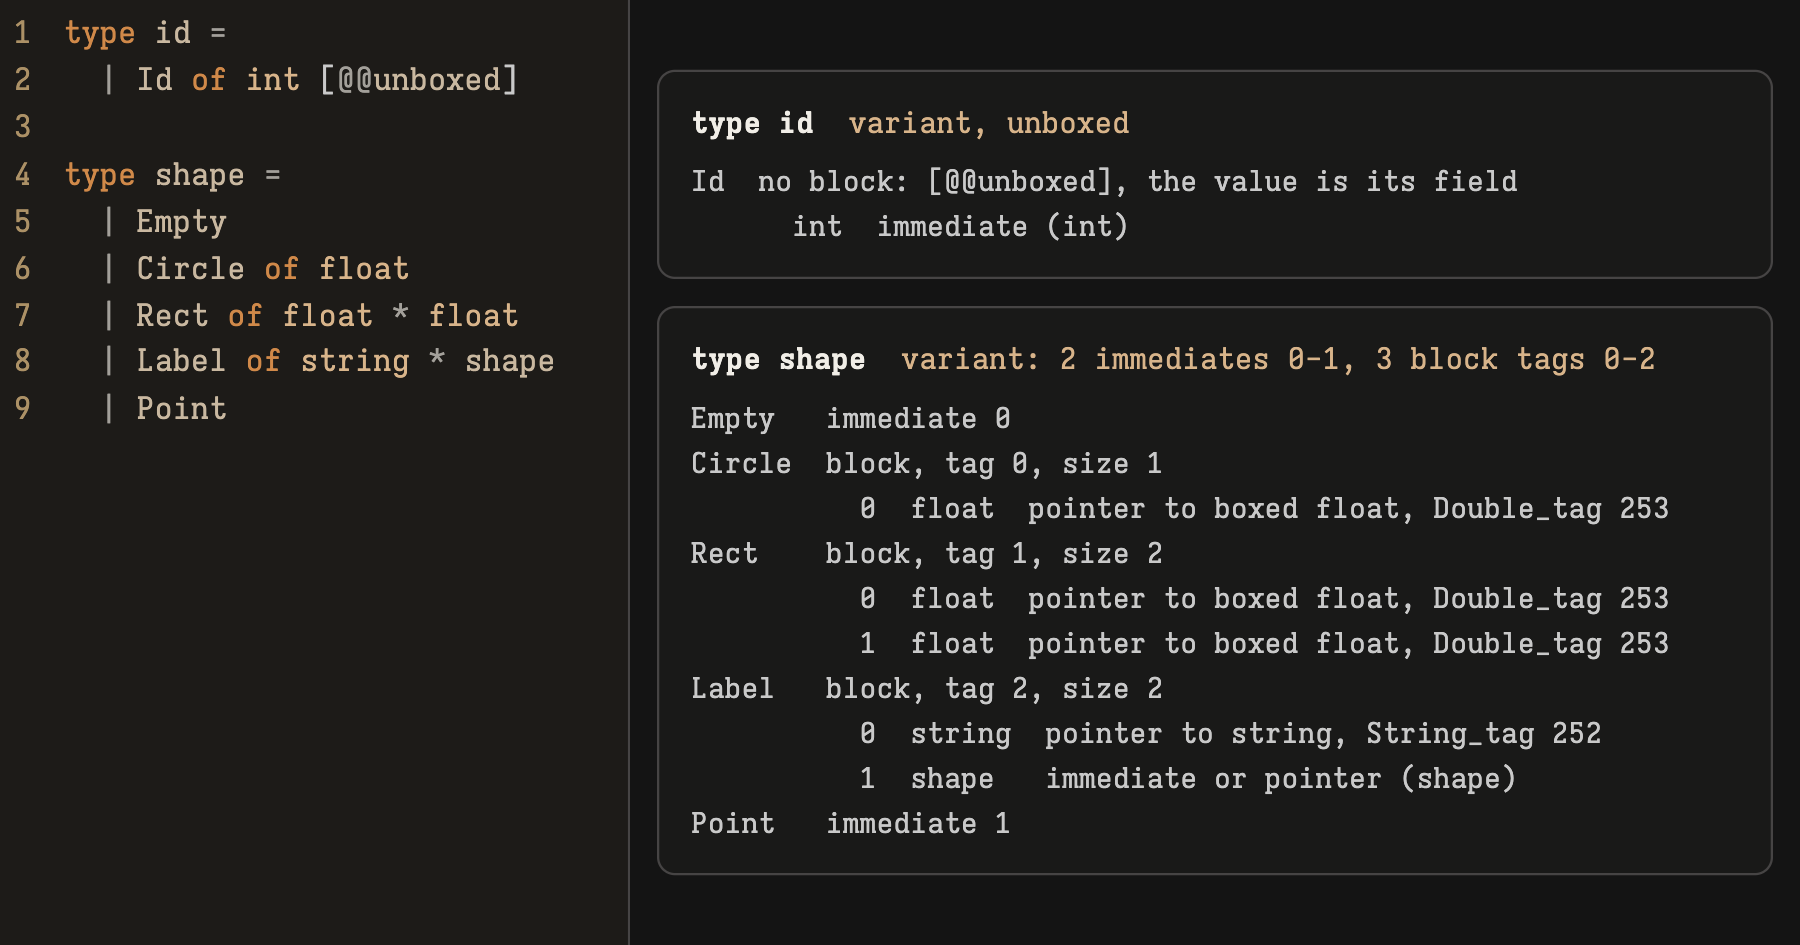
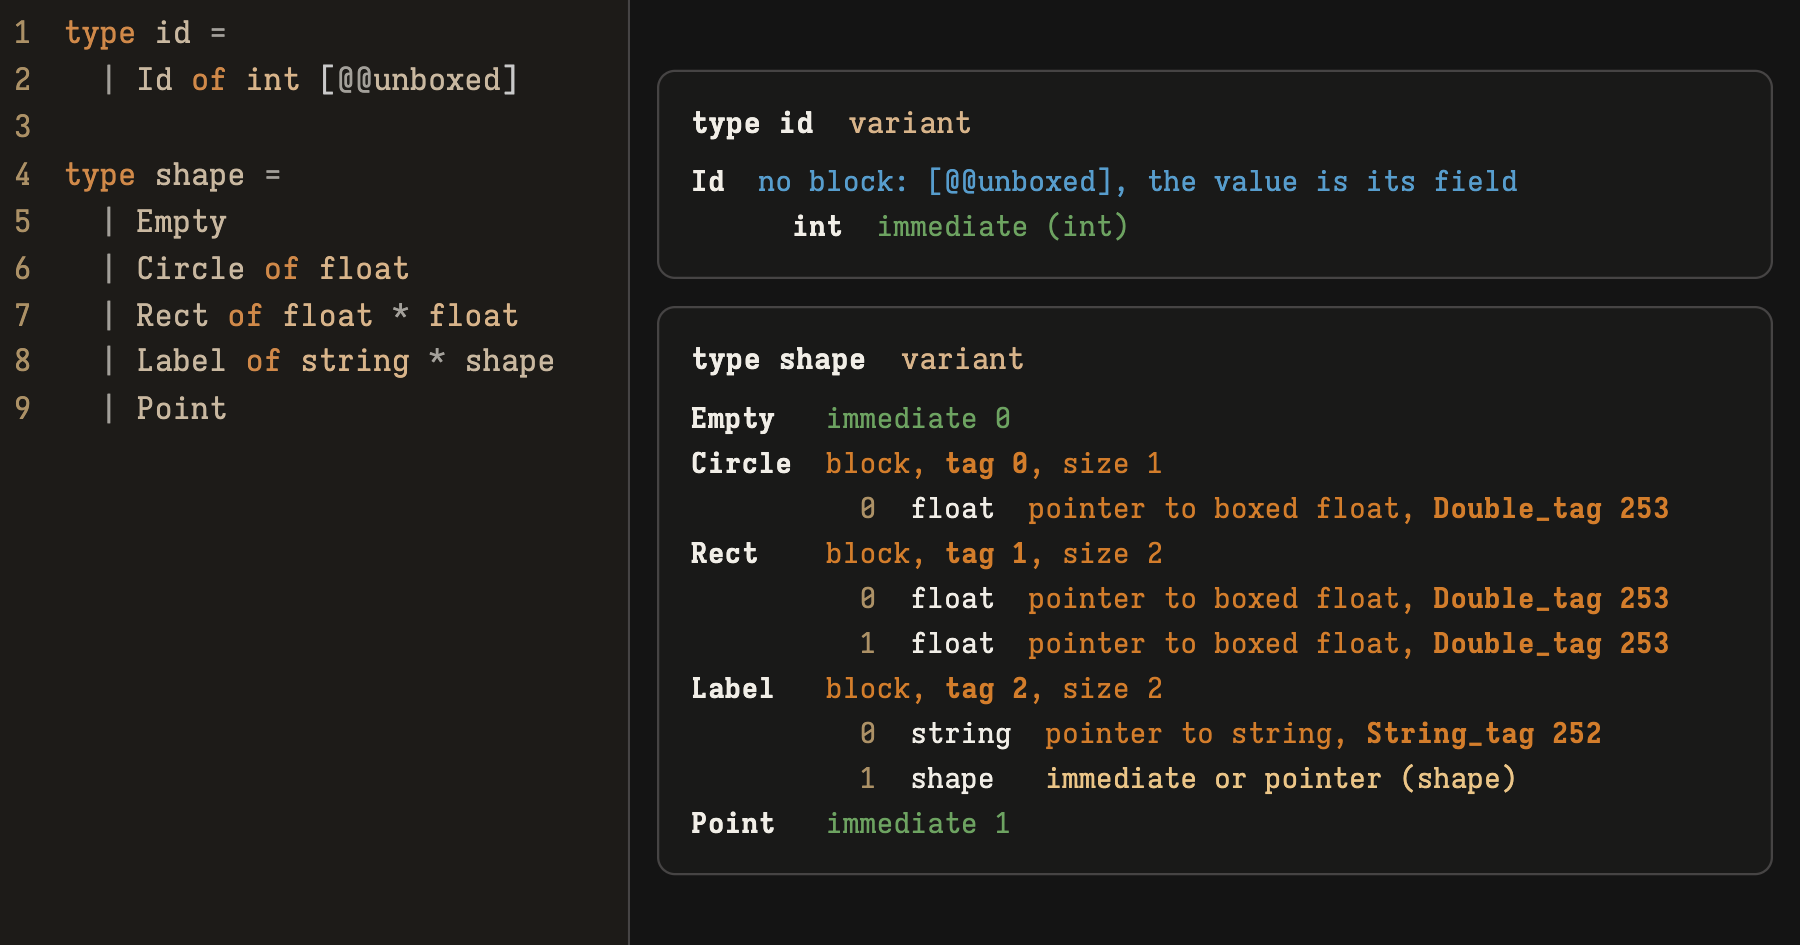
Regenerate the link-preview thumbnail without the colour key
The key above the cards wrapped onto two lines in the fixed 800x420
thumbnail window. It split "immediate or pointer" and pushed the
bottom card to the edge of the image.

Hide the key in the thumbnail script, as it already does for the top
bar, and regenerate og.png. The image now shows the coloured card
bodies and the shortened "variant" headings from the last two commits.

Also keep each key entry on one line in the page CSS, so it no longer
splits in narrow windows.

diff --git a/web/src/style.css b/web/src/style.css
@@ -226,7 +226,7 @@ pre.report {
 
 /* The key to those colours, above the cards. */
 .legend { margin: 0 0 12px; font: 12.5px var(--mono); color: var(--muted); }
-.legend span { margin-right: 1.4em; }
+.legend span { display: inline-block; margin-right: 1.4em; white-space: nowrap; }
 .legend .k-imm { color: var(--c-base); }
 .legend .k-ptr { color: var(--c-ptr); }
 .legend .k-flat { color: var(--c-field); }
